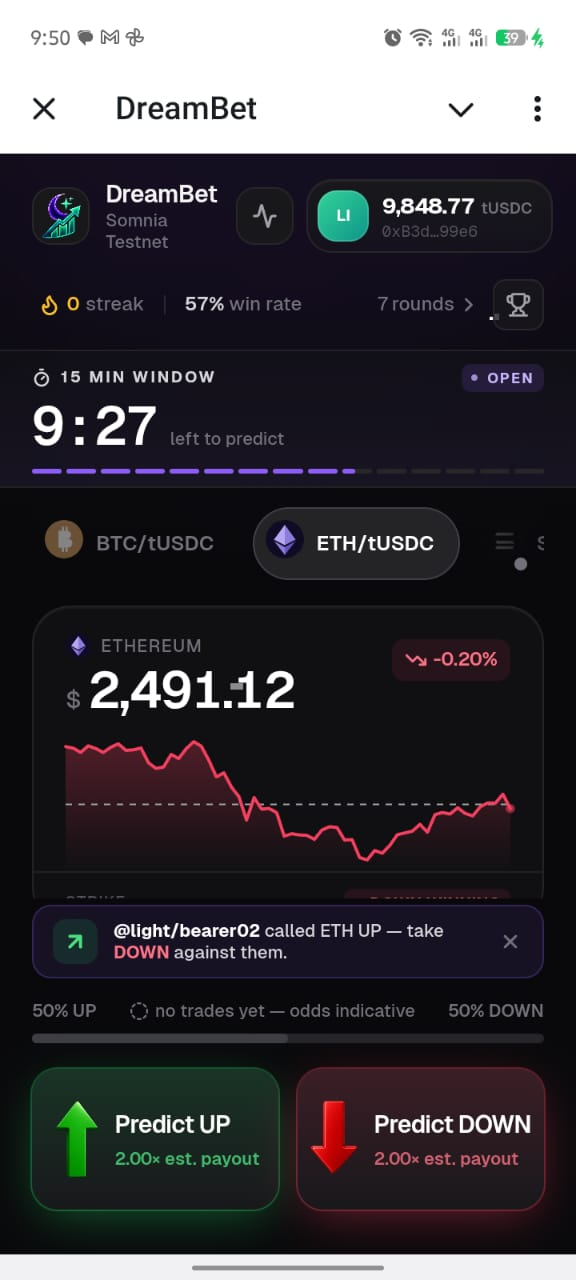
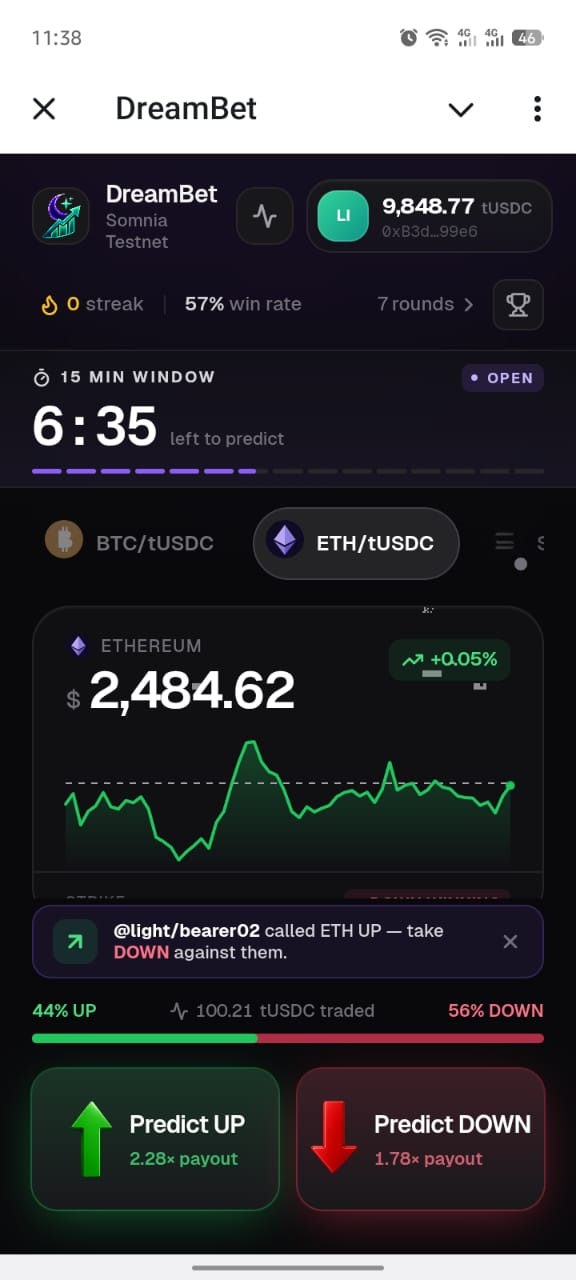
Use every good screen, grouped rather than strung into one story
Twelve shots in four rows of three, each standing on its own: betting (board,
ticket, open bet), reading the market (both ends of Market Pulse, and the
wallet), results (a win, a miss, the record), and the group (share card, a
challenge arriving, standings).

The wallet sheet and challenge banner, held back for the submission write-up,
now earn a place here. The challenge shot is swapped for one taken against a
traded book, so it shows real odds instead of 50/50 with nothing behind it.

Claude-Session: https://claude.ai/code/session_01Bk81fWVo9SK4BSqbR1bghN

diff --git a/README.md b/README.md
@@ -40,21 +40,26 @@ DreamBet is a Telegram Mini App, so it opens inside the conversation. No install
 <tr>
 <td align="center" width="33%"><img src="docs/board.jpg" width="240" alt="The board"><br><sub><b>The board</b></sub></td>
 <td align="center" width="33%"><img src="docs/ticket.jpg" width="240" alt="The ticket"><br><sub><b>The ticket</b></sub></td>
-<td align="center" width="33%"><img src="docs/pulse.jpg" width="240" alt="Market Pulse"><br><sub><b>Market Pulse</b></sub></td>
+<td align="center" width="33%"><img src="docs/position.jpg" width="240" alt="The open bet"><br><sub><b>The open bet</b></sub></td>
+</tr>
+<tr>
+<td align="center" width="33%"><img src="docs/pulse.jpg" width="240" alt="Market Pulse: too close"><br><sub><b>Market Pulse: too close</b></sub></td>
+<td align="center" width="33%"><img src="docs/pulse-lead.jpg" width="240" alt="Market Pulse: clear lead"><br><sub><b>Market Pulse: clear lead</b></sub></td>
+<td align="center" width="33%"><img src="docs/wallet.jpg" width="240" alt="The wallet"><br><sub><b>The wallet</b></sub></td>
+</tr>
+<tr>
+<td align="center" width="33%"><img src="docs/result-win.jpg" width="240" alt="A win"><br><sub><b>A win</b></sub></td>
+<td align="center" width="33%"><img src="docs/result-loss.jpg" width="240" alt="A miss"><br><sub><b>A miss</b></sub></td>
+<td align="center" width="33%"><img src="docs/record.jpg" width="240" alt="Your record"><br><sub><b>Your record</b></sub></td>
 </tr>
 <tr>
 <td align="center" width="33%"><img src="docs/share.jpg" width="240" alt="The share card"><br><sub><b>The share card</b></sub></td>
-<td align="center" width="33%"><img src="docs/position.jpg" width="240" alt="The open bet"><br><sub><b>The open bet</b></sub></td>
-<td align="center" width="33%"><img src="docs/result-win.jpg" width="240" alt="A win"><br><sub><b>A win</b></sub></td>
-</tr>
-<tr>
-<td align="center" width="33%"><img src="docs/result-loss.jpg" width="240" alt="A miss"><br><sub><b>A miss</b></sub></td>
-<td align="center" width="33%"><img src="docs/record.jpg" width="240" alt="Your record"><br><sub><b>Your record</b></sub></td>
+<td align="center" width="33%"><img src="docs/challenge.jpg" width="240" alt="A challenge arriving"><br><sub><b>A challenge arriving</b></sub></td>
 <td align="center" width="33%"><img src="docs/leaderboard.jpg" width="240" alt="The group"><br><sub><b>The group</b></sub></td>
 </tr>
 </table>
 
-*Every figure in those nine shots is real. One bet runs through them end to end: 9.70 tUSDC on ETH UP against a 2,484.79 strike, shared to the group at 3.13×, losing by seventeen cents with six minutes to run, and missed when the window settled at 2,484.40. Around it, a 1.76× quote off the resting book, a settled +62.75, and a record of seven bets the chain actually resolved.*
+*Every figure in these shots is real: live 15-minute windows, quotes walked off the resting book, and results the chain actually resolved.*
 
 **The board.** Three assets as pills, each showing whether it has anything behind it right now — a dark one dims and refuses the tap rather than looking fine until you press it. A live price chart drawn from oracle prints, the line your bet settles against drawn across it, and a countdown that names the window it is counting: *15 min window*, *1 hour window*.
 
